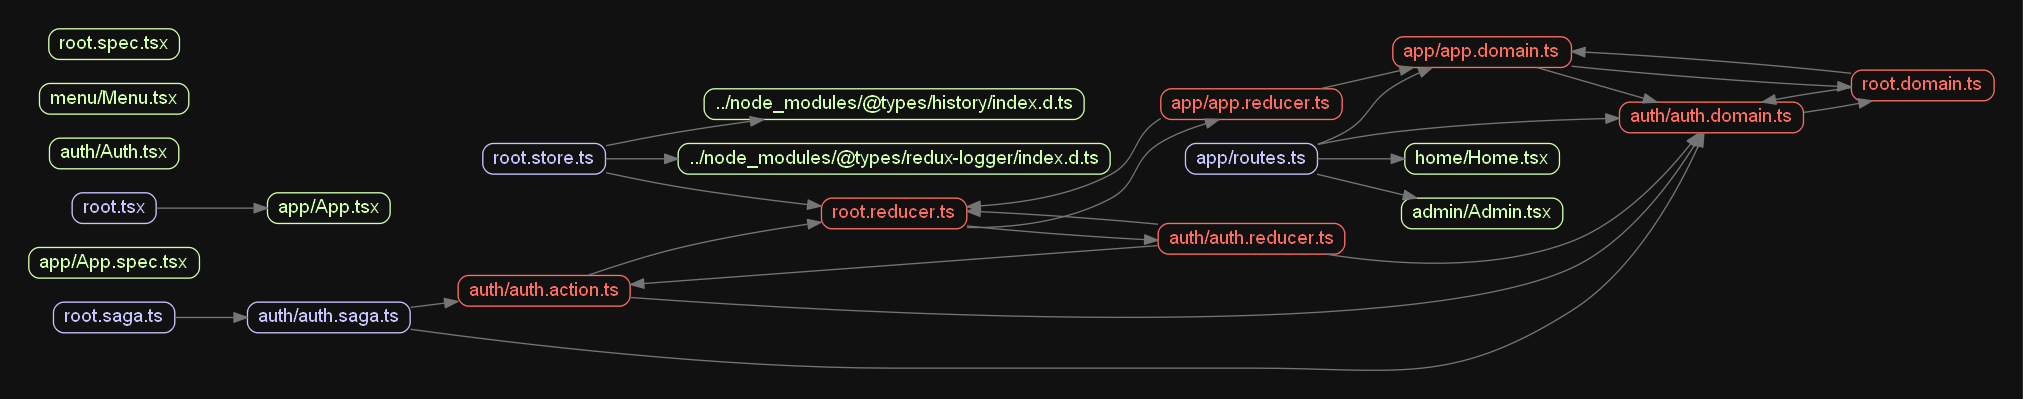
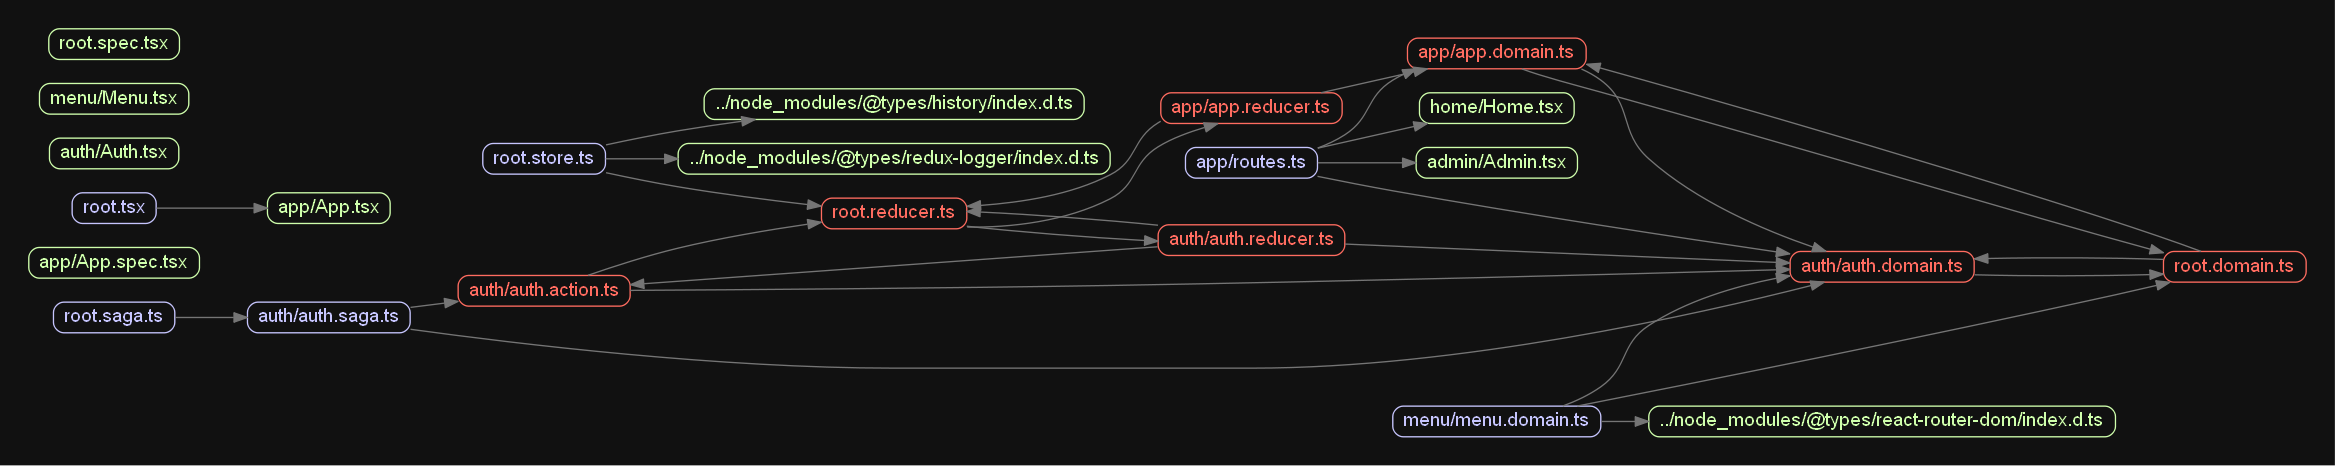
Refactored code, added comments, and cleaned up code

diff --git a/src/app/app.domain.ts b/src/app/app.domain.ts
@@ -20,7 +20,14 @@ export interface IProps extends IBaseProps {
  * State for the App route
  */
 export interface IState {
+  /**
+   * Currently logged in user
+   */
   user: IUser;
+
+  /**
+   * Currently active routes
+   */
   routes: IRoute[];
 }
 
@@ -28,9 +35,28 @@ export interface IState {
  * A navigatable section of the application
  */
 export interface IRoute {
+  /**
+   * Component to be rendered when the route matches
+   */
   component: React.ComponentClass;
+
+  /**
+   * Display name for the route
+   */
   display: string;
+
+  /**
+   * true if the route should be strict when deciding if the route matches, false otherwise
+   */
   exact: boolean;
+
+  /**
+   * Path to match against
+   */
   path: string;
+
+  /**
+   * IPermissions required to access this route
+   */
   permissions: IPermission[];
 }

diff --git a/src/menu/Menu.tsx b/src/menu/Menu.tsx
@@ -1,21 +1,9 @@
 import * as React from "react";
-import { Link } from "react-router-dom";
 import { requestLogin } from "../auth/auth.action";
-import { IUser } from "../auth/auth.domain";
-import { IBaseProps } from "../root.domain";
+import { IProps, IState } from "./menu.domain";
 
-export interface IProps extends IBaseProps {
-  links: Link[];
-  user: IUser;
-}
-
-export interface IFormValues {
-  username: string;
-  password: string;
-}
-
-export default class Menu extends React.Component<IProps, IFormValues> {
-  constructor(props: IProps, state: IFormValues) {
+export default class Menu extends React.Component<IProps, IState> {
+  constructor(props: IProps, state: IState) {
     super(props, state);
     this.state = {
       password: "",

diff --git a/src/root.store.ts b/src/root.store.ts
@@ -5,11 +5,20 @@ import loggerMiddleware from "redux-logger";
 import createSagaMiddleware from "redux-saga";
 import rootReducer from "./root.reducer";
 
+// You cannot use browser history in jest tests
 const history = (global as any).jasmine ? createMemoryHistory() : createBrowserHistory();
+
+/**
+ * Gets the configured history
+ */
 export function getHistory() {
   return history;
 }
 const connectedReducer = connectRouter(history)(rootReducer);
+
+/**
+ * The saga middleware
+ */
 export const sagaMiddleware = createSagaMiddleware();
 
 const store = createStore(
@@ -24,4 +33,7 @@ const store = createStore(
   ),
 );
 
+/**
+ * The central store
+ */
 export default store;

diff --git a/src/menu/menu.domain.ts b/src/menu/menu.domain.ts
@@ -1,0 +1,33 @@
+import { Link } from "react-router-dom";
+import { IUser } from "../auth/auth.domain";
+import { IBaseProps } from "../root.domain";
+
+/**
+ * Props for Menu
+ */
+export interface IProps extends IBaseProps {
+    /**
+     * Links to display
+     */
+    links: Link[];
+
+    /**
+     * Currently logged in user
+     */
+    user: IUser;
+}
+
+/**
+ * State for Menu
+ */
+export interface IState {
+    /**
+     * Currently entered username
+     */
+    username: string;
+
+    /**
+     * Currently entered password
+     */
+    password: string;
+}

diff --git a/src/root.domain.ts b/src/root.domain.ts
@@ -2,11 +2,17 @@ import { Dispatch } from "redux";
 import { IState as IAppState } from "./app/app.domain";
 import { IRootState as IAuthState } from "./auth/auth.domain";
 
+/**
+ * Root of the state tree
+ */
 export interface IRootState {
   app: IAppState;
   auth: IAuthState;
 }
 
+/**
+ * Base interface for all component props
+ */
 export interface IBaseProps {
   dispatch?: Dispatch;
 }

diff --git a/src/app/app.reducer.ts b/src/app/app.reducer.ts
@@ -1,6 +1,11 @@
 import { IAction } from "../root.reducer";
 import { IState } from "./app.domain";
 
+/**
+ * Reducer for App
+ * @param state Current state
+ * @param action Action to apply to state
+ */
 export function reducer(state: IState, action: IAction): IState {
   switch (action.type) {
   }

diff --git a/src/root.reducer.ts b/src/root.reducer.ts
@@ -4,6 +4,12 @@ import { reducer as auth } from "./auth/auth.reducer";
 
 export default combineReducers({ app, auth });
 
+/**
+ * Base action interface
+ */
 export interface IAction {
+  /**
+   * Action type
+   */
   type: string;
 }

diff --git a/src/root.saga.ts b/src/root.saga.ts
@@ -1,6 +1,9 @@
 import { all } from "redux-saga/effects";
 import { rootSaga as loginSaga } from "./auth/auth.saga";
 
+/**
+ * Root of the saga tree
+ */
 export default function* rootSaga() {
   yield all([loginSaga()]);
 }
